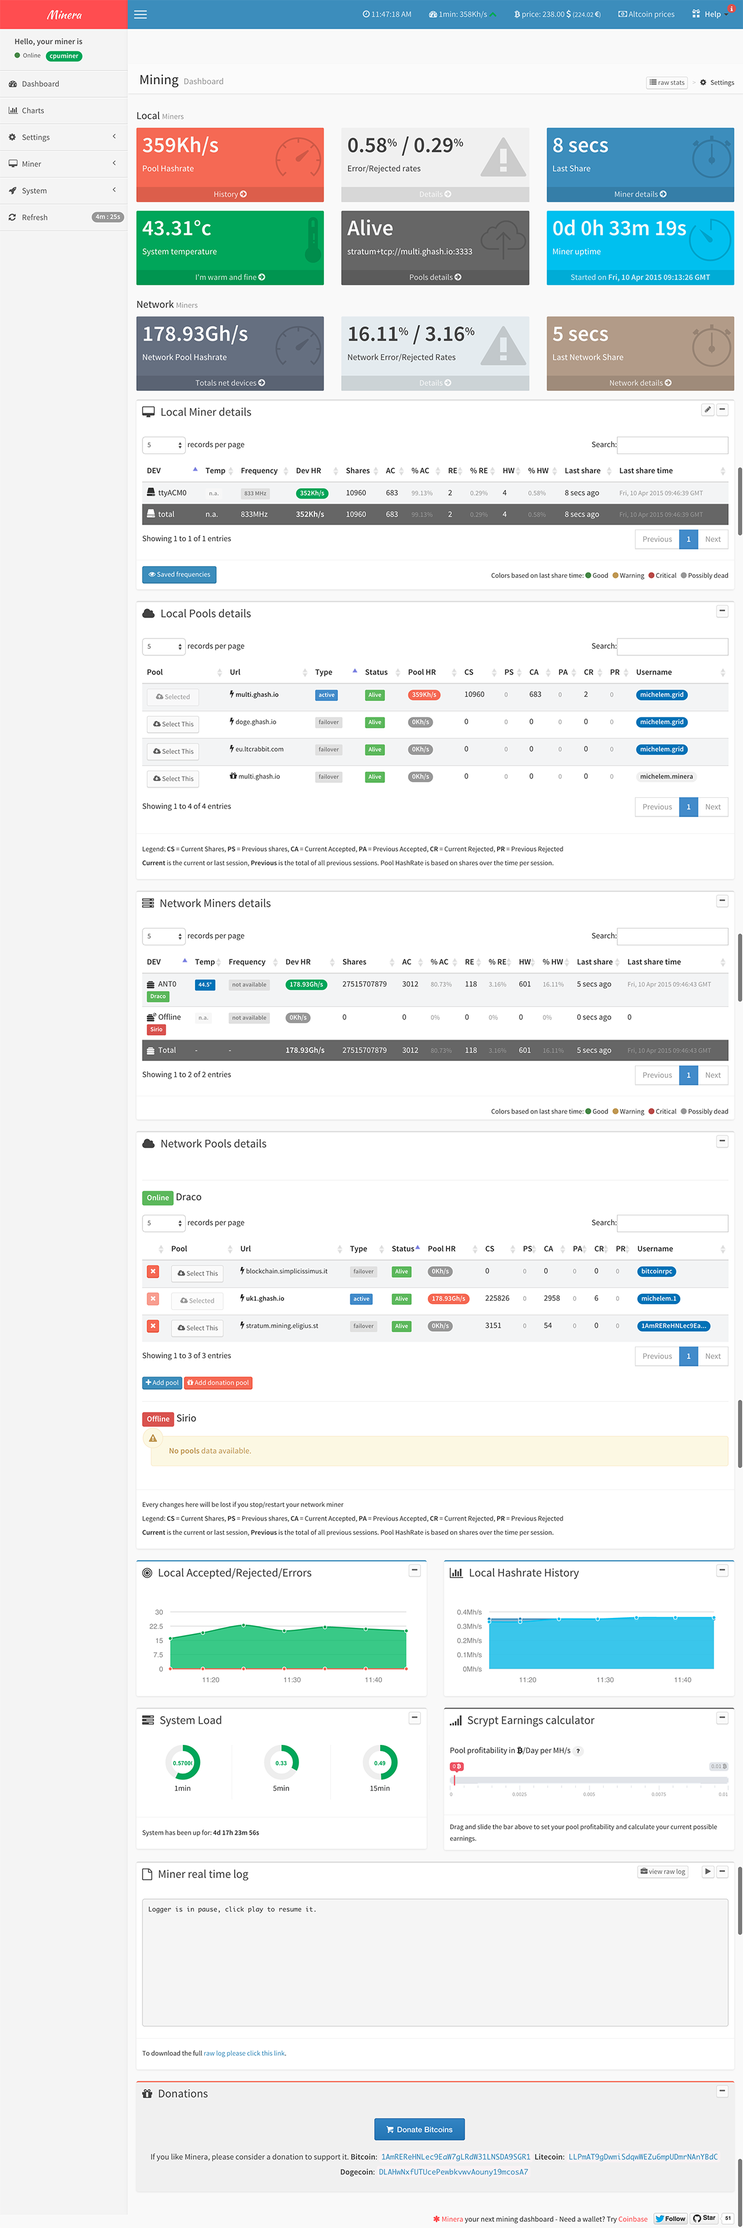
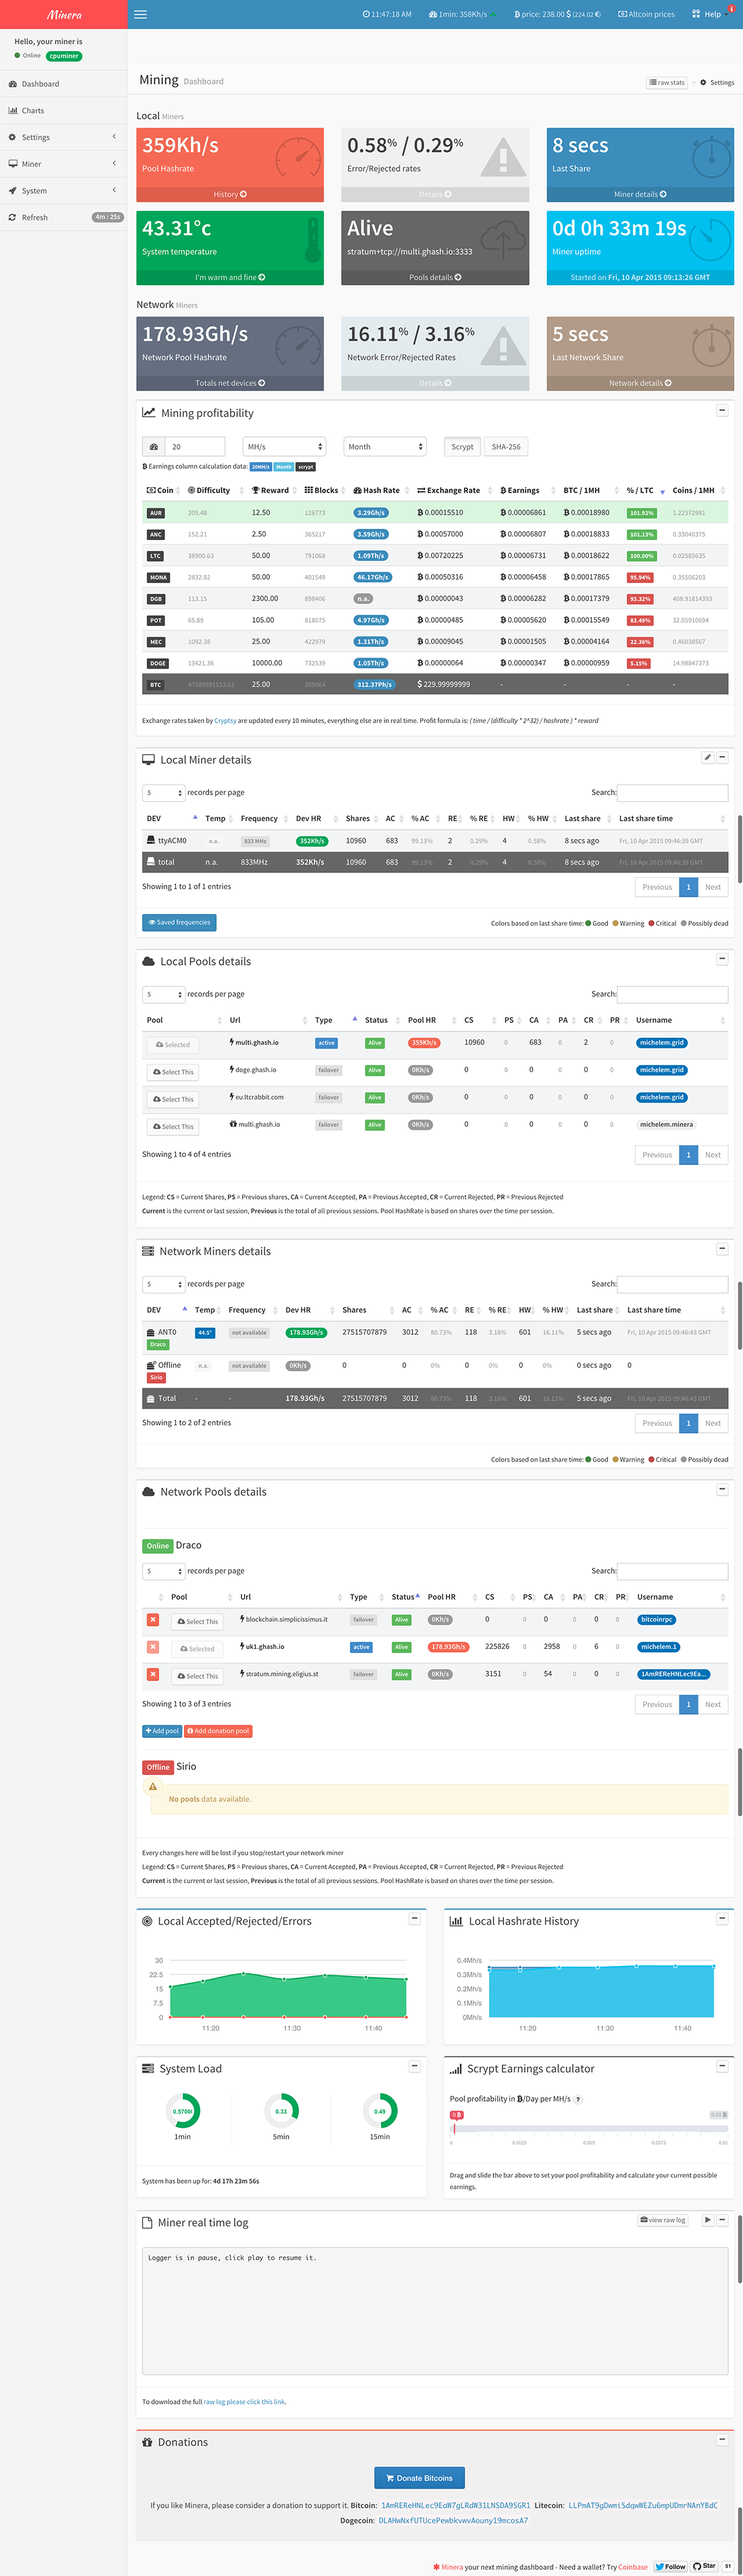
Various fixes, donation pools, profit when miner stopped

diff --git a/assets/js/minera.js b/assets/js/minera.js
@@ -2959,8 +2959,8 @@ function getStats(refresh)
 				var updateProfitDataTable = function (data, currentProfitData) {
 					// Add profit data
 					$('#profit-table-details').dataTable().fnClearTable();
-					
-					$('.profit_local_hashrate').html( ($('.profit_hashrate').val() > 0) ? $('.profit_hashrate').val()+$('.profit_unit').find('option:selected').data('profit-unit') : convertHashrate(data.totals.hashrate/1000));
+					var thisHash = (data.totals && data.totals.hashrate) ? data.totals.hashrate/1000 : 0;
+					$('.profit_local_hashrate').html( ($('.profit_hashrate').val() > 0) ? $('.profit_hashrate').val()+$('.profit_unit').find('option:selected').data('profit-unit') : convertHashrate(thisHash));
 					$('.profit_local_period').html($('.profit_period').find('option:selected').data('profit-period'));
 					$('.profit_local_algo').html($('.profit_algo').data('profit-algo'));
 						
@@ -2992,7 +2992,7 @@ function getStats(refresh)
 				var maxProfit = _.max(data.profits, function (v) { return (v.btc_profitability*100/ltc.btc_profitability); }),
 					currentProfitData = {};
 					
-				currentProfitData.hash = data.totals.hashrate/1000000;
+				currentProfitData.hash = (data.totals && data.totals.hashrate) ? data.totals.hashrate/1000000 : 0;
 				
 				updateProfitDataTable(data, currentProfitData);
 

diff --git a/application/models/util_model.php b/application/models/util_model.php
@@ -841,6 +841,18 @@ class Util_model extends CI_Model {
 			
 			$this->setPools($pools);
 		}
+		
+		$newPools = $this->getPools();
+		$conf = json_decode($this->redis->get("minerd_json_settings"));
+		$conf->pools = $this->parsePools($this->redis->get("minerd_software"), json_decode($newPools, true));
+
+		$jsonConfRedis = json_encode($conf);
+		$jsonConfFile = json_encode($conf, JSON_PRETTY_PRINT);
+		
+		//log_message("error", var_export($conf, true));
+		// Save the JSON conf file
+		file_put_contents($this->config->item("minerd_conf_file"), $jsonConfFile);
+		$this->redis->set("minerd_json_settings", $jsonConfRedis);
 	}
 	
 	function setPools($pools)
@@ -851,6 +863,42 @@ class Util_model extends CI_Model {
 	function getPools()
 	{
 		return $this->redis->get("minerd_pools");
+	}
+	
+	function parsePools($minerSoftware, $pools)
+	{
+		$poolsArray = array();
+		
+		if (is_array($pools)) {
+			foreach ($pools as $pool)
+			{
+				if ($minerSoftware == "cgminer" OR $minerSoftware == "cgdmaxlzeus")
+				{
+					// CGminer has different method to add proxy pool
+					if (!empty($pool['proxy']))
+					{
+						$poolsArray[] = array("url" => $pool['proxy']."|".$pool['url'], "user" => $pool['username'], "pass" => $pool['password']);	
+					}
+					else
+					{
+						$poolsArray[] = array("url" => $pool['url'], "user" => $pool['username'], "pass" => $pool['password']);
+					}
+				}
+				else
+				{
+					if (!empty($pool['proxy']))
+					{
+						$poolsArray[] = array("url" => $pool['url'], "user" => $pool['username'], "pass" => $pool['password'], "pool-proxy" => $pool['proxy']);	
+					}
+					else
+					{
+						$poolsArray[] = array("url" => $pool['url'], "user" => $pool['username'], "pass" => $pool['password']);
+					}		
+				}
+			}
+		}
+		
+		return  $poolsArray;
 	}
 	
 	function setCommandline($string)
@@ -1822,7 +1870,7 @@ class Util_model extends CI_Model {
 	public function generateMineraId()
 	{
 		$mac = shell_exec('sudo cat /sys/class/net/eth0/address');
-		$id = substr(strtolower(preg_replace('/[0-9_\/]+/','',base64_encode(sha1(trim($mac))))),0,16);
+		$id = substr(strtolower(preg_replace('/[0-9_\/]+/','',base64_encode(sha1(trim($mac))))),0,12);
 		$this->redis->set("minera_system_id", $id);
 		return $id;
 	}

diff --git a/application/controllers/app.php b/application/controllers/app.php
@@ -468,37 +468,8 @@ class App extends Main_Controller {
 			$this->redis->set('pool_global_proxy', $this->input->post('pool_global_proxy'));
 			$dataObj->pool_global_proxy = $this->input->post('pool_global_proxy');
 					
-			foreach ($pools as $pool)
-			{
-				if ($minerSoftware == "cgminer" OR $minerSoftware == "cgdmaxlzeus")
-				{
-					// CGminer has different method to add proxy pool
-					if (!empty($pool['proxy']))
-					{
-						$addPools[] = " -o ".$pool['proxy']."|".$pool['url']." -u ".$pool['username']." -p ".$pool['password'];
-						$poolsArray[] = array("url" => $pool['proxy']."|".$pool['url'], "user" => $pool['username'], "pass" => $pool['password']);	
-					}
-					else
-					{
-						$addPools[] = " -o ".$pool['url']." -u ".$pool['username']." -p ".$pool['password'];
-						$poolsArray[] = array("url" => $pool['url'], "user" => $pool['username'], "pass" => $pool['password']);
-					}
-				}
-				else
-				{
-					if (!empty($pool['proxy']))
-					{
-						log_message("error", "hell");
-						$addPools[] = " -o ".$pool['url']." -x ".$pool['proxy']." -u ".$pool['username']." -p ".$pool['password'];
-						$poolsArray[] = array("url" => $pool['url'], "user" => $pool['username'], "pass" => $pool['password'], "pool-proxy" => $pool['proxy']);	
-					}
-					else
-					{
-						$addPools[] = " -o ".$pool['url']." -u ".$pool['username']." -p ".$pool['password'];
-						$poolsArray[] = array("url" => $pool['url'], "user" => $pool['username'], "pass" => $pool['password']);
-					}		
-				}
-			}
+			$poolsArray = $this->util_model->parsePools($minerSoftware, $pools);
+			
 			$confArray['pools'] = $poolsArray;
 			
 			// Prepare JSON conf
